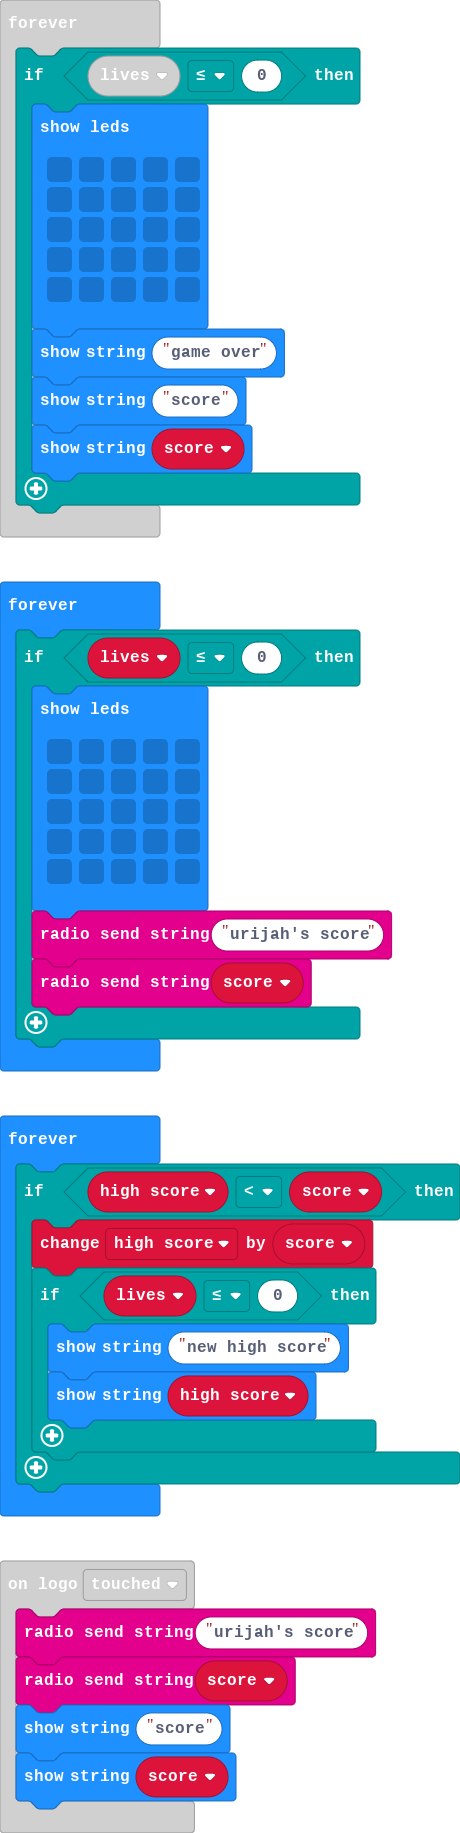
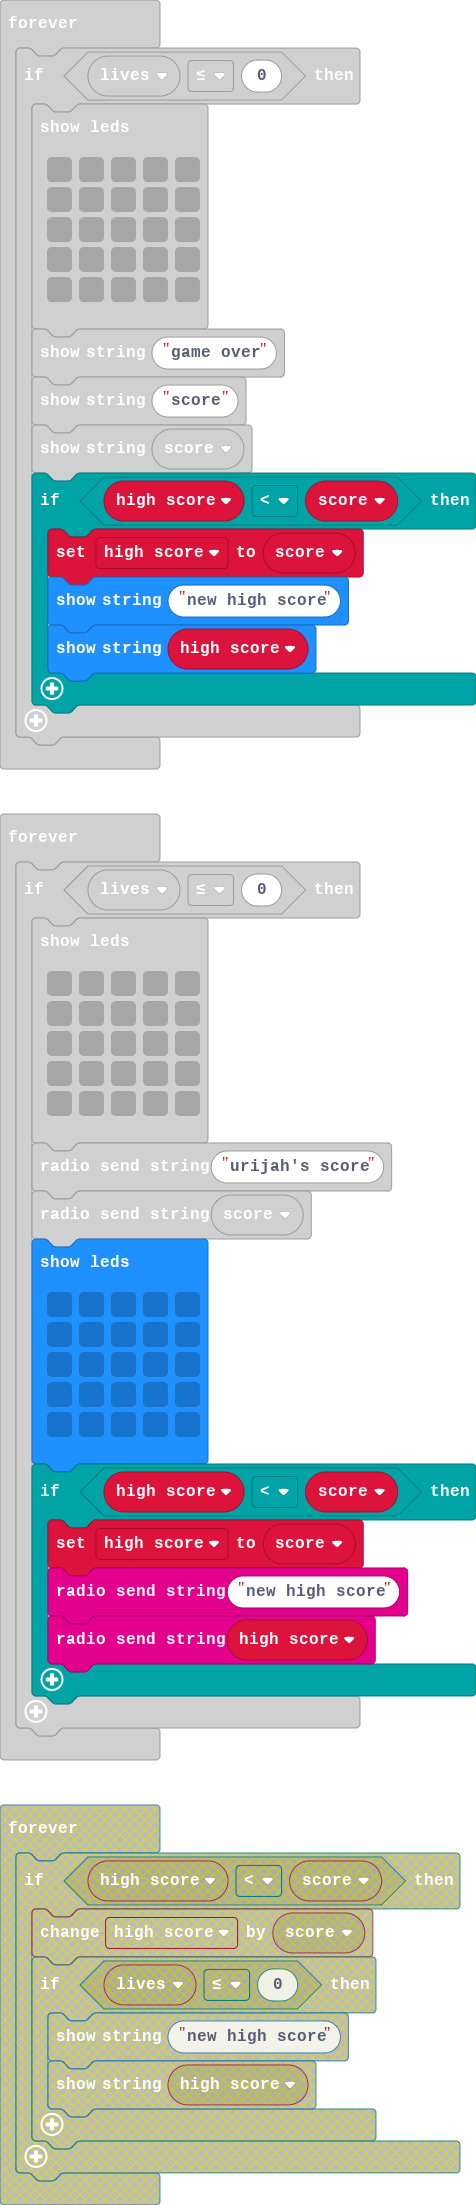
Update main.blocks, main.ts

diff --git a/main.ts b/main.ts
@@ -28,6 +28,11 @@ basic.forever(function () {
         basic.showString("game over")
         basic.showString("score")
         basic.showString("" + (score))
+        if (high_score < score) {
+            high_score = score
+            basic.showString("new high score")
+            basic.showString("" + (high_score))
+        }
     }
 })
 basic.forever(function () {
@@ -41,14 +46,17 @@ basic.forever(function () {
             `)
         radio.sendString("urijah's score")
         radio.sendString("" + (score))
-    }
-})
-basic.forever(function () {
-    if (high_score < score) {
-        high_score += score
-        if (lives <= 0) {
-            basic.showString("new high score")
-            basic.showString("" + (high_score))
+        basic.showLeds(`
+            . . . . .
+            . . . . .
+            . . . . .
+            . . . . .
+            . . . . .
+            `)
+        if (high_score < score) {
+            high_score = score
+            radio.sendString("new high score")
+            radio.sendString("" + (high_score))
         }
     }
 })
